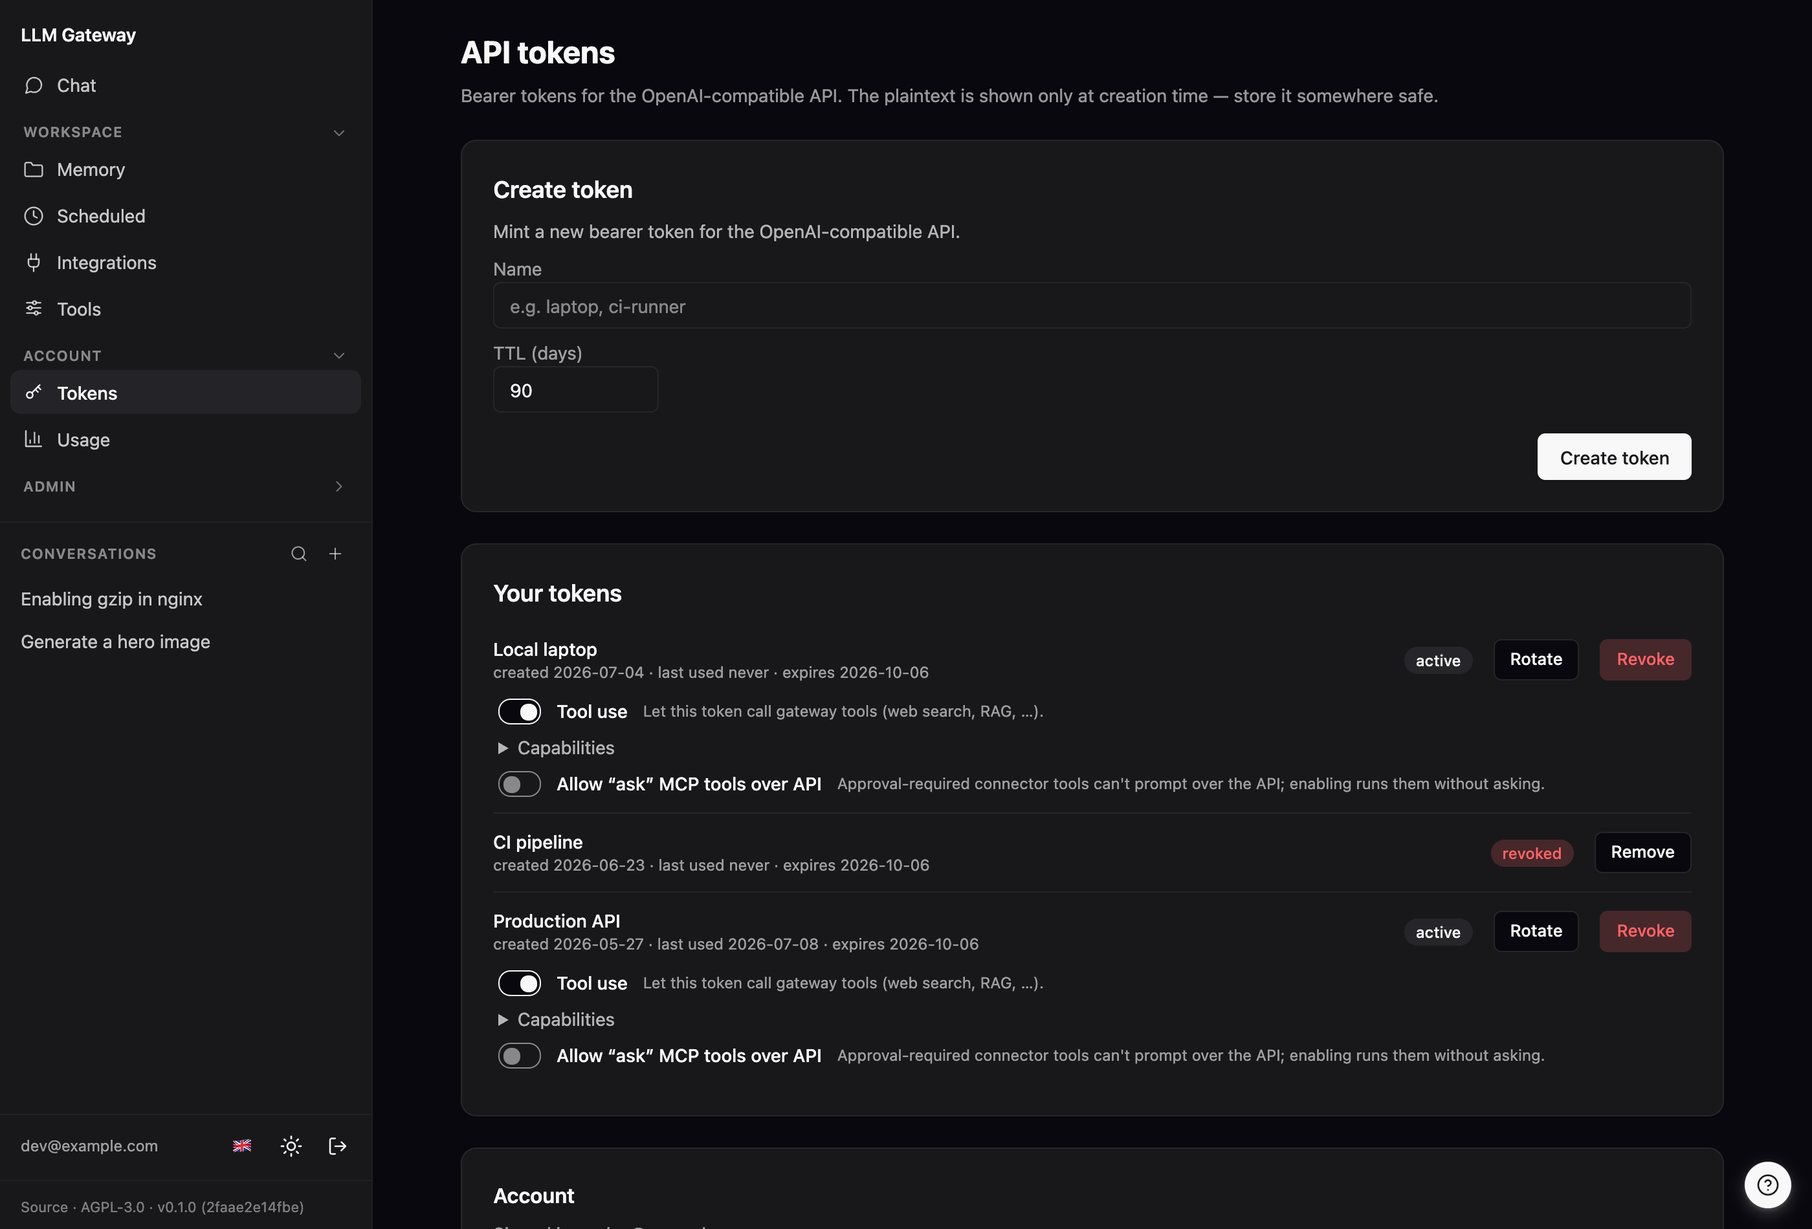
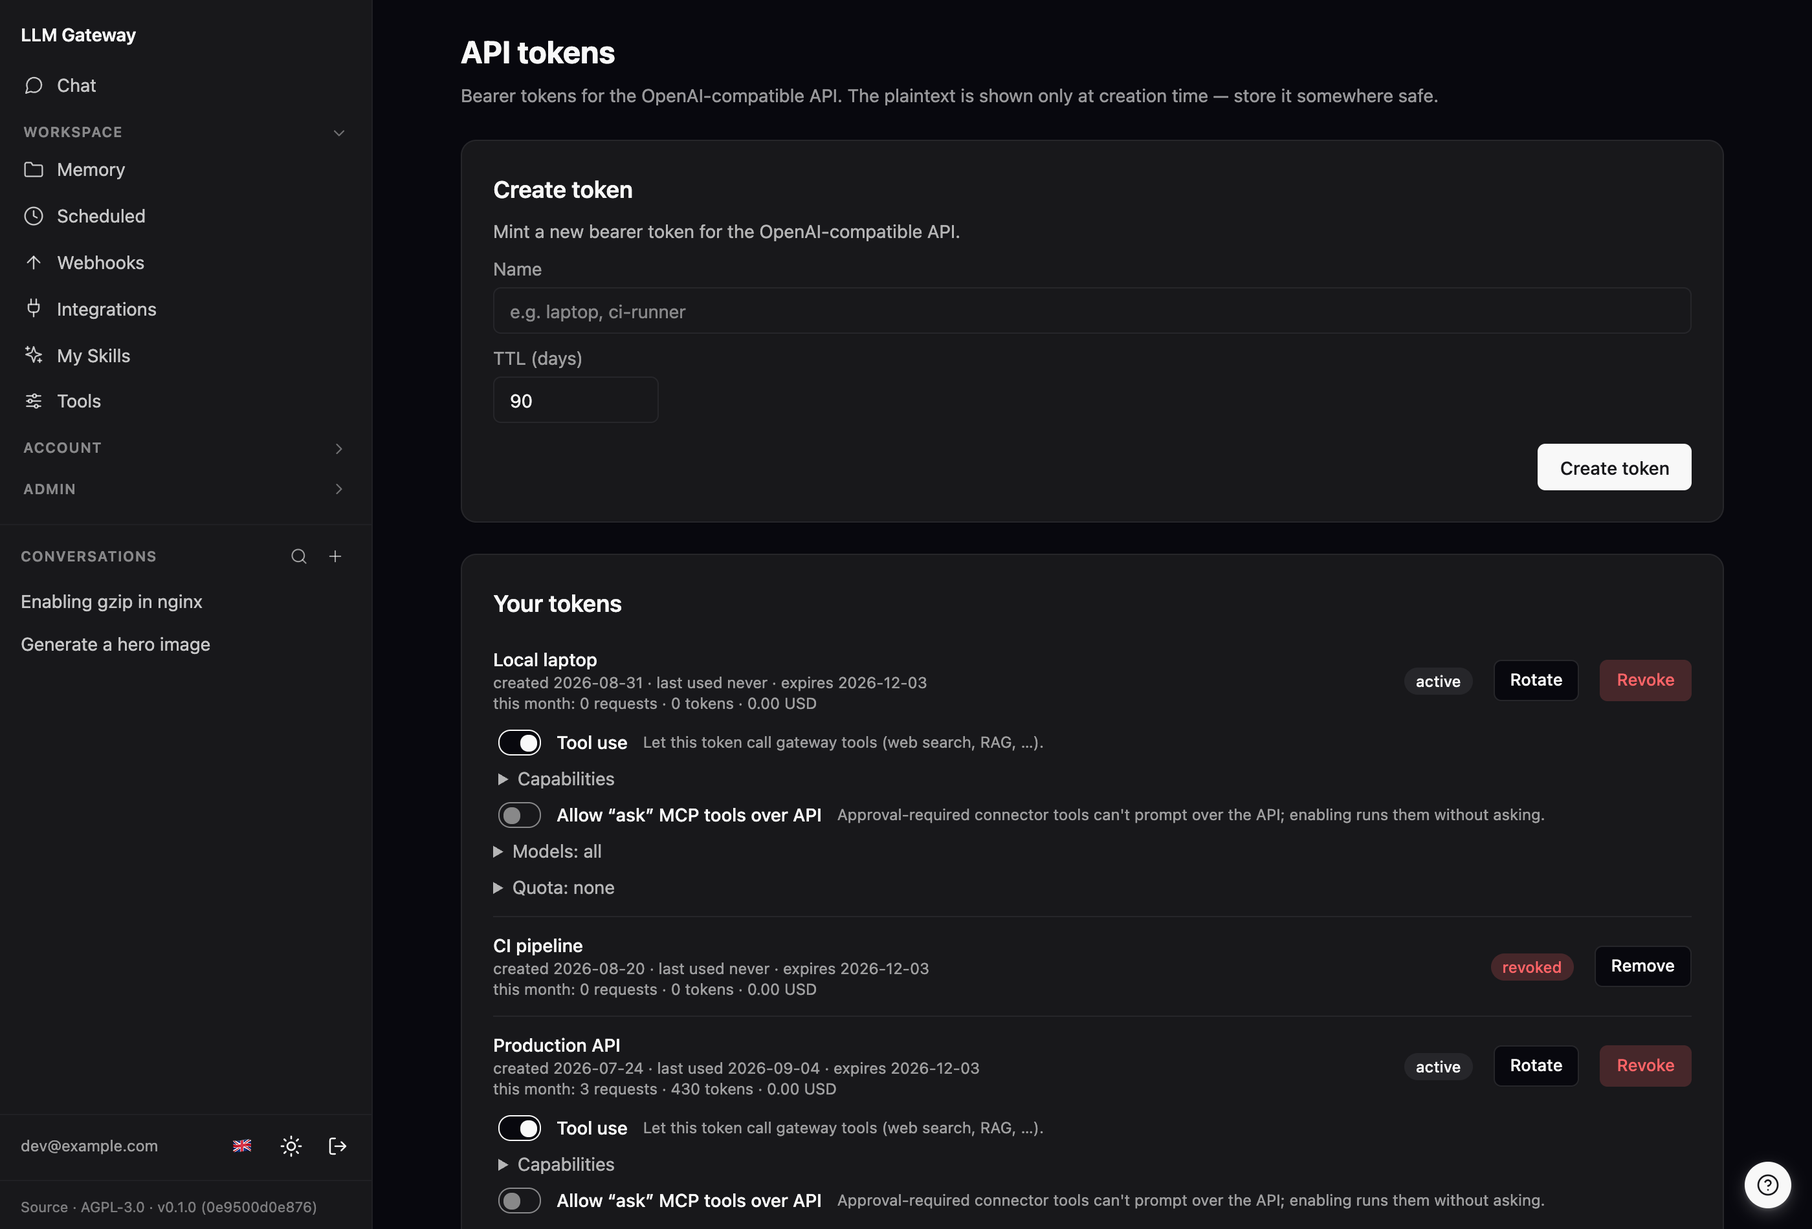
docs(readme): correct what had gone stale, and reshoot the UI
Audited against the code rather than read for plausibility. Most of it holds
up — the compaction defaults, the 8-hour impersonation TTL, the 30-second
scheduler poll, 800/100 chunking, the 1 MB file cap, the five restart-badged
settings, the `gwk_`/`gwh_` prefixes, the sync-webhook envelope, the toolchain
and dependency versions all check out, and every link and image resolves.

Six things did not:

* **The crate list was simply wrong** — "a workspace of 5 crates" naming a
  `cli` crate that does not exist. It is nine, and the split renamed the rest.
* **The tool table called itself the full list while omitting nine tools** —
  `read_document`, `list_documents`, `edit_document_section`,
  `rag_query_documents`, `rag_list_documents`, `rag_fetch_document`,
  `load_image_url`, `zip_attachments`, `render_video` — plus the whole
  `comfyui_*` family. Cross-checked against `docs/tools-inventory.md`, which
  *is* drift-guarded by a test; this copy is not, which is why it rotted.
* **RAG documented two source kinds; there are three** — `gdrive` has been
  offered on the /rag form and undocumented here.
* **A tech-stack list had lost its heading** and rendered as part of "Voice
  conversation".
* **Contents was missing Webhooks and Setup wizard** — two whole sections.
* **The endpoints table still described limits as global/role/user only.**

Screenshots: /tokens, /usage, /admin/limits and the limits panel were older
[…]

diff --git a/README.md b/README.md
@@ -12,10 +12,13 @@
 - [Tools the model can call](#tools-the-model-can-call)
 - [The built-in web UI](#the-built-in-web-ui)
 - [Scheduled actions](#scheduled-actions)
+- [Webhooks](#webhooks)
 - [Conversation compaction](#conversation-compaction)
 - [Voice conversation](#voice-conversation)
+- [Built with](#built-with)
 - [Integrations (per-user MCP connectors)](#integrations-per-user-mcp-connectors)
 - [Quick start (local development)](#quick-start-local-development)
+- [Setup wizard](#setup-wizard)
 - [Configuration](#configuration)
   - [Chat attachments (S3)](#chat-attachments-s3)
   - [RAG (codebase search)](#rag-codebase-search)
@@ -35,7 +38,7 @@
 - **Model aliases + fallback** — give clients a stable name (a per-backend alias like `qwen`) that routes to whatever real model is loaded, so swapping the model needs no client change; the same alias on several backends is a load-balanced group. Optional fallbacks cover an unknown model name or a known model whose backends are all down. All configured per backend/pool at `/admin/upstreams`. See [`docs/upstreams.md`](docs/upstreams.md#model-aliases).
 - **OIDC login** — browser sign-in against your identity provider; the gateway then issues its own `gwk_…` API tokens. Provider secrets come only from the environment.
 - **Per-user tokens + RBAC** — tokens are SHA-256-hashed at rest and revocable. Roles (mapped from OIDC claims) gate which models and server-side tools each user may use.
-- **Usage accounting, rate limits & quotas** — every call is metered per user/token/model (requests, tokens, and — with per-model prices — spend), shown on `/usage` with a per-API-token breakdown and drill-down. Set hard rate limits and quotas at `/admin/limits` (requests / tokens / cost, over a rolling hour / day / week / month), scoped globally, per-role, per-user, or **per API token**; over-budget callers get a `429`. A token can also be **scoped to specific models**, so a key you hand to a third party reaches only what you listed. Self-hosted pools can be marked exempt (a per-pool toggle at `/admin/upstreams`) so their usage is still recorded and shown on `/usage`, but never counts against a limit or quota.
+- **Usage accounting, rate limits & quotas** — every call is metered per user/token/model (requests, tokens, and — with per-model prices — spend), shown on `/usage` with a per-API-token breakdown and drill-down. Set hard rate limits and quotas at `/admin/limits` (requests / tokens / cost, over a rolling hour / day / week / month), scoped globally, per-role, per-user, or **per API token**; over-budget callers get a `429`. A token can also be **scoped to specific models**, so a key you hand to a third party reaches only what you listed — the owner scopes their own token at `/tokens`, an operator scopes any token at `/admin/tokens`, and the two lists intersect, so each side can only narrow. Self-hosted pools can be marked exempt (a per-pool toggle at `/admin/upstreams`) so their usage is still recorded and shown on `/usage`, but never counts against a limit or quota.
 - **Server-side tools** — the gateway runs tools *mid-completion* (web search, fetch-URL, document rendering, code execution, RAG, network lookups, and more); the client just sees a normal completion. Full list in [Tools the model can call](#tools-the-model-can-call).
 - **Chat UI** — a server-rendered, mobile-friendly chat at `/chat` with persisted multi-conversation history, token-by-token streaming, file attachments, voice dictation, shareable/exportable conversations, and resume-on-reconnect (every turn is written to SQLite as it happens).
 - **RAG** — operator-managed, indexed codebases that the chat model can search.
@@ -69,6 +72,10 @@ Every tool is **RBAC-gated per role**, and each user can flip their own grants o
 | **Utility** | `convert_currency`, `get_current_timestamp`, `company_echo` | Convert currencies at daily ECB rates, get the timezone-aware current time, and echo a message back verbatim (`company_echo` is a built-in smoke test for the tool-call loop). |
 | **Knowledge base** | `rag_list_collections`, `rag_search`, `rag_grep` | Search operator-indexed codebases/corpora and get back the matching chunks with file paths, line ranges, and scores. Search is **hybrid** — dense vectors fused with FTS5/BM25 — so exact identifiers land as well as paraphrase, and a `path_glob` scopes a query to part of the corpus. `rag_grep` covers what ranking can't express: a **regular expression** over the indexed text, returning matching lines with line numbers and context (bounded by result/row/time limits, since it has no index behind it). |
 | **Integrations** | `mcp__<server>__*` | Call the tools of any bridged [MCP](https://modelcontextprotocol.io/) server. Each server's tools are namespaced so two servers can't collide. |
+| **Canvas plumbing** | `read_document`, `list_documents`, `edit_document_section` | Read a canvas document back, list the conversation's documents, and edit one section of one — the finer-grained companions to the canvas tools above. |
+| **Knowledge base (document sets)** | `rag_query_documents`, `rag_list_documents`, `rag_fetch_document` | Answer questions about a *set* of indexed documents rather than a passage: filter, sort and total by the fields an extraction profile pulled out (vendor, date, amount, project), list a folder with the stored per-document summaries, and pull one document's full extracted text. See [RAG](#rag-codebase-search). |
+| **Media & bundles** | `load_image_url`, `zip_attachments`, `render_video` | Fetch an image from a URL and keep it as a reusable conversation attachment, bundle several files the conversation already holds into one `.zip` download, and assemble a video from a declarative JSON timeline — cut clips with transitions, animated text, a logo and a music bed, re-renderable from the same timeline (`render_video` needs the sandbox). |
+| **ComfyUI workflows** *(opt-in)* | `comfyui_<workflow>` | One tool per workflow the operator has installed — image, video, or audio generation on a self-hosted [ComfyUI](https://www.comfy.org/). The catalog is live-reloadable at `/admin/comfyui`; see [`docs/comfyui.md`](docs/comfyui.md). |
 | **Skills** | `read_skill` | Load an operator-installed [skill](#agent-skills) — brand guidelines, house style, domain playbooks — then apply it: pull the `SKILL.md`, then any referenced asset (e.g. an SVG to inline). |
 
 **Tools turn themselves on.** Tools start *off* to keep the model's tool list short — short lists are cheaper and the model picks tools more accurately. When a request needs a capability the model doesn't currently have, it calls a built-in `enable_tools` tool to switch the relevant ones on; their real schemas appear on the next turn and stay on for the rest of the conversation. So the model reaches for exactly what it needs, when it needs it, without the operator wiring per-conversation tool lists — all still bounded by what the user's role permits.
@@ -92,10 +99,12 @@ There's also `/tokens` (mint, rotate, and revoke your `gwk_…` API tokens — s
 
 | | |
 |---|---|
-| ![The /tokens page: mint a bearer token with a name and TTL, then a list of your tokens — each showing active/revoked status, created / last-used / expiry dates, a per-token tool-use toggle, and Rotate/Revoke actions.](docs/img/tokens.png) | ![The /usage page: request volume and token usage for the selected period, with headline Requests / Tokens / Errors counters and breakdowns by backend, source, and model — plus a Mine / All users toggle for admins.](docs/img/usage.png) |
-| **API tokens** (`/tokens`) — mint, rotate, revoke, and per-token tool scoping. | **Usage** (`/usage`) — your own request/token volume, broken down by backend, source, and model. |
+| ![The /tokens page: mint a bearer token with a name and TTL, then a list of your tokens — each showing active/revoked status, created / last-used / expiry dates, this month's requests / tokens / spend, collapsible Tool use, Models and Quota panels, and Rotate/Revoke actions.](docs/img/tokens.png) | ![The /usage page: a "Your limits" panel of used-vs-limit bars above Period / Source / Backend / Token filters, headline Requests / Tokens / Cost / Errors counters, and breakdowns by backend, source, model and API token — plus a Mine / All users toggle for admins.](docs/img/usage.png) |
+| **API tokens** (`/tokens`) — mint, rotate, revoke, per-token tool *and model* scoping, a per-token quota, and what each token has cost this month. | **Usage** (`/usage`) — your own request/token volume, broken down by backend, source, and model. |
 
 ![The /admin/users page: everyone who has signed in, each row showing their identity-provider groups, the gateway roles those resolve to, when they joined, and an Impersonate action — plus a recent-impersonation audit log below.](docs/img/users.png)
+
+![The /admin/tokens register: every API token in the deployment with its id, owner, active/revoked state, created / used / expires dates, this month's requests, tokens and cost, and a Models & quota column showing the resolved allowlist, any per-token spend cap, and the operator's own model restriction editor.](docs/img/admin-tokens.png)
 
 **Rate limits & quotas.** At `/admin/limits`, cap how many **requests**, how many **tokens**, or how much **spend** a caller may use over a rolling **hour / day / week / month** — scoped **globally**, **per role**, **per user**, or **per API token**. The first three resolve most-specific-first (user → most-generous role → global default); with none configured everyone is unlimited. A user's whole budget is shared across their API tokens, chat, and scheduled runs.
 
@@ -103,7 +112,7 @@ A **per-token** rule is different in kind: it is an *additional* ceiling checked
 
 | | |
 |---|---|
-| ![The /admin/limits page: an "Add or update a limit" form (Applies to global/role/user, a model dropdown, dimension, window, and value) above a table of configured rules — global request/token/cost caps, a per-model token cap, and a per-role hourly cap — each with a delete action.](docs/img/limits-admin.png) | ![The /usage page's "Your limits" panel: progress bars for the caller's in-force limits (cost per month, requests per day, tokens per week, and a per-model token cap) showing used vs limit and when each refreshes, above the usage totals and per-backend/source/model breakdowns with a cost column.](docs/img/usage-limits.png) |
+| ![The /admin/limits page: an "Add or update a limit" form (Applies to global/role/user/API token, a "role id, user email, or token id" field, model scope, dimension, window, and value) above a table of configured rules — global request/token/cost caps, a per-model token cap, a per-role hourly cap, and a per-API-token monthly spend cap — each with a delete action.](docs/img/limits-admin.png) | ![The /usage page's "Your limits" panel: progress bars for the caller's in-force limits (cost per month, requests per day, tokens per week, and a per-model token cap) showing used vs limit and when each refreshes, above the usage totals and per-backend/source/model breakdowns with a cost column.](docs/img/usage-limits.png) |
 | **Rate-limit editor** (`/admin/limits`) — global / role / user / API-token rules across requests, tokens, and cost. | **Your limits** (`/usage`) — live bars of used-vs-limit with reset times, plus spend once models are priced. |
 
 The `/chat` page itself does more than stream replies: **fork** a conversation, **share** it via a public link, **pin** favourites, **export** to Markdown or PDF, **edit-and-retry** a turn, **dictate** with the voice button, and set **per-conversation reasoning effort**. See [`docs/ui.md`](docs/ui.md).
@@ -158,7 +167,9 @@ It appears in the chat composer **only when a `speech` upstream pool is configur
 
 ![The voice conversation modal: a large push-to-talk button with a "Tap to talk" prompt, a running YOU / AI transcript, and a "recording to chat" indicator — everything said is also saved as an ordinary chat turn.](docs/img/voice.png)
 
-- **Rust** (edition 2024, toolchain pinned to 1.95 via [mise](https://mise.jdx.dev/)) — a workspace of 5 crates: `gateway`, `session-core`, `cli`, `shared`, and `sandbox-runner`.
+## Built with
+
+- **Rust** (edition 2024, toolchain pinned to 1.95 via [mise](https://mise.jdx.dev/)) — a workspace of nine crates: `gateway` (the binary and its `/v1` proxy), `gateway-core`, `gateway-runtime`, `gateway-features`, `gateway-tools`, `gateway-web`, `session-core`, `shared`, and `sandbox-runner`.
 - **[rama 0.3.0-rc1](https://ramaproxy.org/)** — HTTP server, router, middleware, and proxying.
 - **[plait](https://github.com/devashishdxt/plait)** — type-checked, auto-escaping server-rendered HTML (`html! { … }`).
 - **[datastar](https://data-star.dev/)** — client-side reactivity over SSE, self-hosted from the binary.
@@ -406,6 +417,7 @@ Point the gateway at a body of documents; it fetches, chunks, and embeds it, and
 
 - **`git`** — clone a repository and index its working tree. Needs `git` on the host PATH (the container image ships it).
 - **`webdav`** — index a folder tree on a WebDAV server: Nextcloud, ownCloud, OpenCloud, or a plain RFC 4918 server. Give it a server URL, an account, and an **app password** (stored encrypted at rest), plus optionally the folder to index. It indexes exactly what that account can see, so scope the account's shares to what you want indexed. On the ownCloud lineage the gateway detects the `oc:fileid` / propagating-etag extensions automatically and uses them for move-proof file identity; a plain server works too, just without those.
+- **`gdrive`** — index a Google Drive folder tree (including shared drives), authorised per collection. Same walk and the same per-document extraction as the other two; Google's own file ids give move-proof identity.
 
 Pick the source on the `/rag` create form — the credential fields come from the provider itself, so the form matches whichever source you choose — and use **Test connection** to check the account and folder before starting an index. `GET /api/v0/rag/providers` returns the same descriptors for scripting.
 
@@ -507,7 +519,7 @@ openai api chat_completions.create -m <model-id> -g user "Hello"
 | `/`, `/login`, `/chat`, `/tokens`, `/tools`, `/memory`, `/scheduled`, `/webhooks`, `/integrations`, `/skills`, `/usage` | session cookie | Web UI (`/integrations` is the per-user MCP connector store; `/skills` is the per-user private-skills manager — upload a `.skill` archive or write `SKILL.md` inline, usable only in your own chats; `/webhooks` manages your inbound triggers; `/usage` shows your own request/token usage; admins get an in-page "All users" toggle). |
 | `/hooks/{secret}` | secret in URL | Fire a webhook: runs the owner's saved prompt with the request body appended as an untrusted block. Accepts GET and POST; sync webhooks return the model output as a JSON envelope, async ones return `202`. |
 | `/hooks/rag/{token}` | token in URL | Re-sync one RAG collection. Point a file host's webhook (Nextcloud's `webhook_listeners`, ownCloud's equivalent, or a cron line) at it so a changed folder is searchable in minutes rather than at the next poll. The body is ignored — this is a doorbell, not a change feed; the walk that follows establishes what actually changed. Returns `202` with the number of refs queued. |
-| `/admin/users`, `/admin/tokens`, `/admin/groups`, `/rag`, `/admin/models`, `/admin/upstreams`, `/admin/skills`, `/admin/connectors`, `/admin/comfyui`, `/admin/limits`, `/admin/settings`, `POST /admin/settings/clear` | admin role | Admin UI (the users page lists registered users and starts impersonation; tokens is the deployment-wide API-token register — every token with its owner, month-to-date spend, model allowlist and quota, read-only (the secret itself is unrecoverable: only a SHA-256 of it is stored); groups maps OIDC claims onto gateway groups and sets per-group tool/skill grants — pools, RAG collections, and MCP connectors then restrict access by group; upstreams edits the pool/backend topology in the DB and hot-reloads it via "Apply changes" — the old `/admin/backends` and `/admin/pools` now redirect here; connectors curates the MCP catalog — see [`docs/connectors.md`](docs/connectors.md) for provider setup; comfyui shows the loaded ComfyUI workflow catalog with a live reload button — see [`docs/comfyui.md`](docs/comfyui.md) for the manifest format; limits sets per-global/role/user rate limits & quotas; settings edits the operator settings that used to live in `gateway.toml` — OCR, compaction, attachment storage, sandbox, ComfyUI, RAG, skills, Typst, GeoIP, usage, limits, feedback, push and session/token lifetimes — grouped into five tabs, with secrets sealed at rest. Almost everything takes effect on the next request; the handful of fields that own a background worker are badged `restart` and leave a banner until the process comes back). |
+| `/admin/users`, `/admin/tokens`, `/admin/groups`, `/rag`, `/admin/models`, `/admin/upstreams`, `/admin/skills`, `/admin/connectors`, `/admin/comfyui`, `/admin/limits`, `/admin/settings`, `POST /admin/settings/clear` | admin role | Admin UI (the users page lists registered users and starts impersonation; tokens is the deployment-wide API-token register — every token with its owner, month-to-date spend, model allowlist and quota; the secret itself is unrecoverable (only a SHA-256 of it is stored), and the one thing editable there is an operator model restriction, which intersects with the owner's own so neither side can widen the other; groups maps OIDC claims onto gateway groups and sets per-group tool/skill grants — pools, RAG collections, and MCP connectors then restrict access by group; upstreams edits the pool/backend topology in the DB and hot-reloads it via "Apply changes" — the old `/admin/backends` and `/admin/pools` now redirect here; connectors curates the MCP catalog — see [`docs/connectors.md`](docs/connectors.md) for provider setup; comfyui shows the loaded ComfyUI workflow catalog with a live reload button — see [`docs/comfyui.md`](docs/comfyui.md) for the manifest format; limits sets global / role / user / API-token rate limits & quotas; settings edits the operator settings that used to live in `gateway.toml` — OCR, compaction, attachment storage, sandbox, ComfyUI, RAG, skills, Typst, GeoIP, usage, limits, feedback, push and session/token lifetimes — grouped into five tabs, with secrets sealed at rest. Almost everything takes effect on the next request; the handful of fields that own a background worker are badged `restart` and leave a banner until the process comes back). |
 | `POST /impersonate/stop` | session cookie | End an active impersonation and return to your own account. |
 | `/feedback`, `/feedback/extract`, `/feedback/config` | session cookie | Feedback widget: file a GitHub issue, turn a voice transcript into structured fields, and report whether the feature is configured. Enabled by the `[feedback]` config block. |
 | `/api/v0/push/config`, `/api/v0/push/subscribe`, `/api/v0/push/unsubscribe` | session cookie | Web Push (turn-complete notifications): fetch the VAPID public key + enabled flag, register a browser subscription, and forget one. Governed by the `[push]` config block. |
